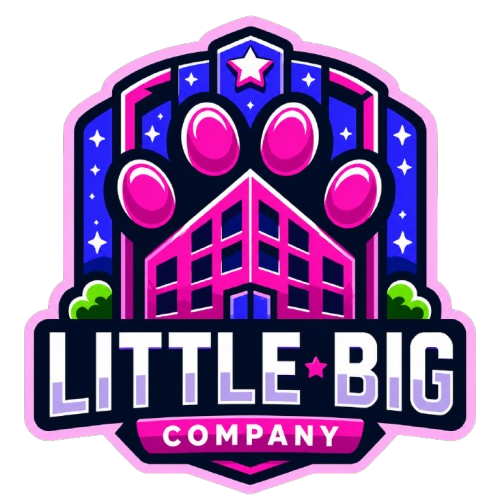
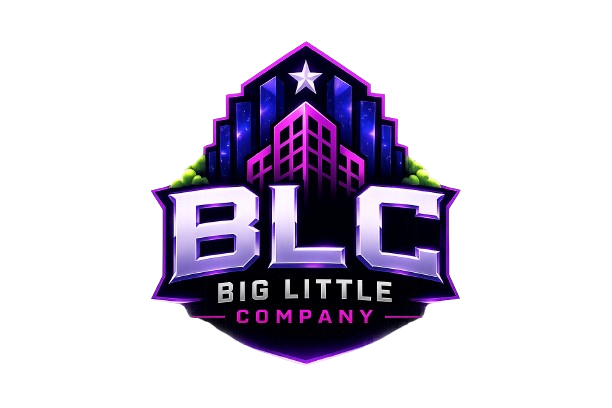
m

diff --git a/index.html b/index.html
@@ -108,11 +108,11 @@
         </div>
 
         <div class="team-card sister-card">
-          <img src="logo.webp" alt="BLC Logo">
-          <h3>Sister Team</h3>
-          <p>Development Team</p>
-          <a href="roster.html">View Team</a>
-        </div>
+  <img src="littlebigcompany.png" alt="Little Big Company Logo">
+  <h3>Little Big Company</h3>
+  <p>Development Team</p>
+  <a href="roster.html">View Team</a>
+</div>
       </div>
     </div>
 

diff --git a/styles.css b/styles.css
@@ -1600,3 +1600,12 @@ footer {
 .hero-discord-icon img:hover {
   transform: scale(1.12);
 }
+.sister-card img {
+  width: 190px;
+  height: auto;
+  object-fit: contain;
+
+  filter:
+    drop-shadow(0 0 12px rgba(155,77,255,.55))
+    drop-shadow(0 0 22px rgba(255,31,191,.25));
+}